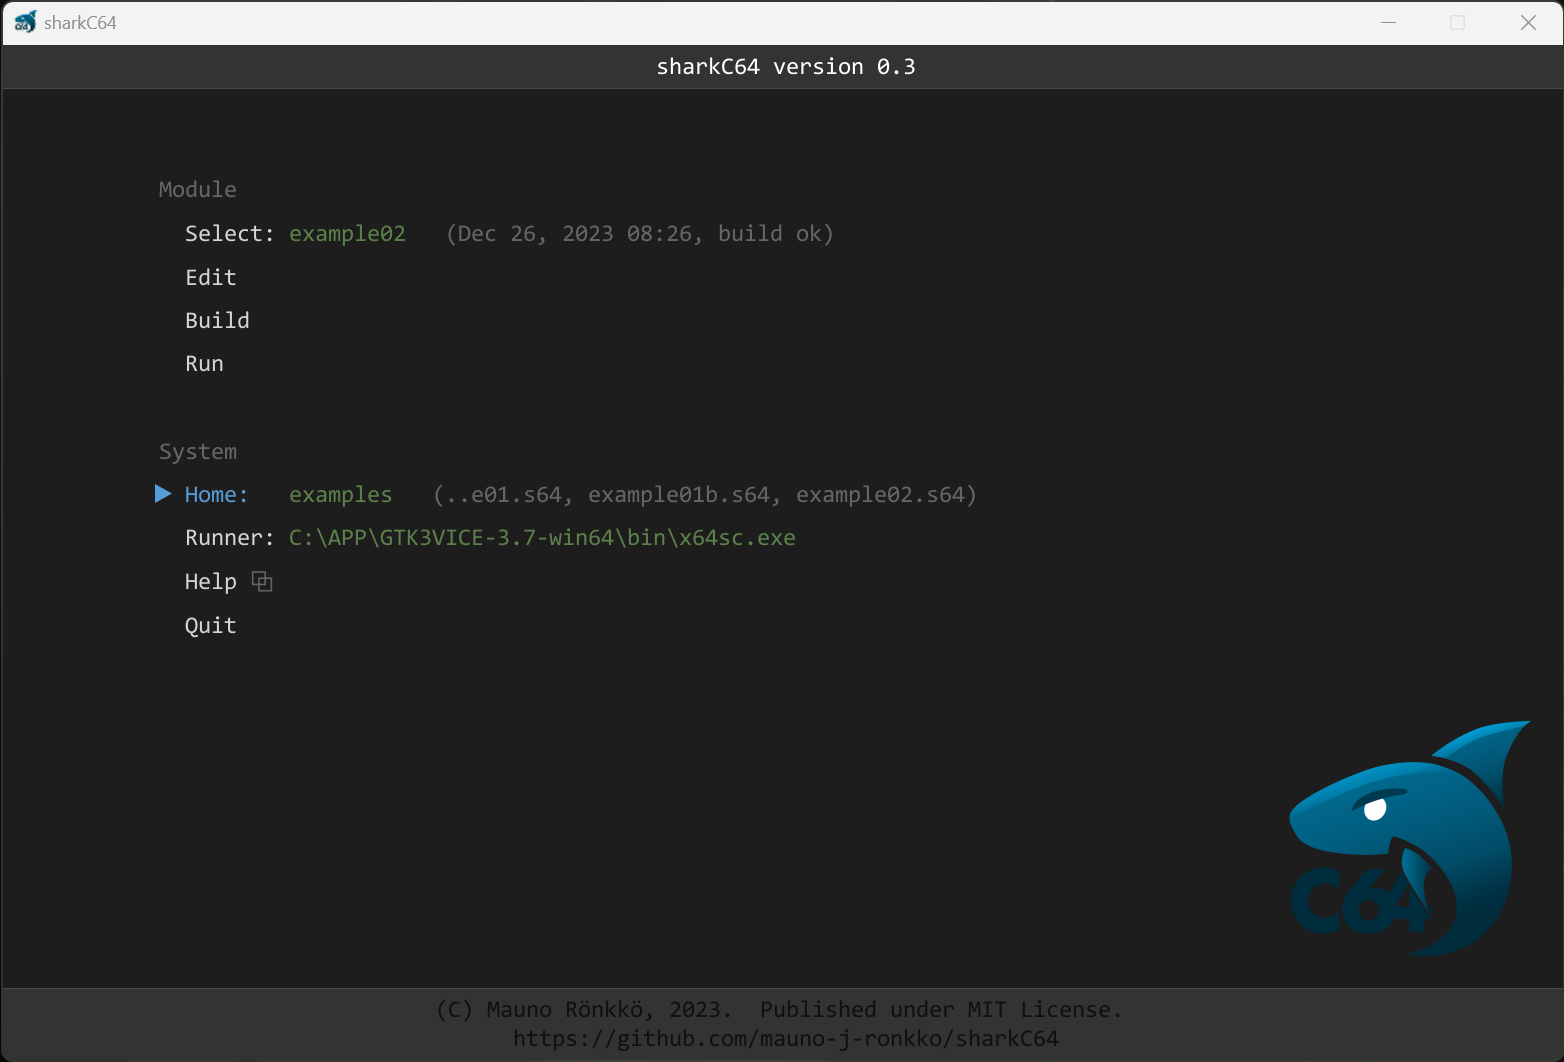
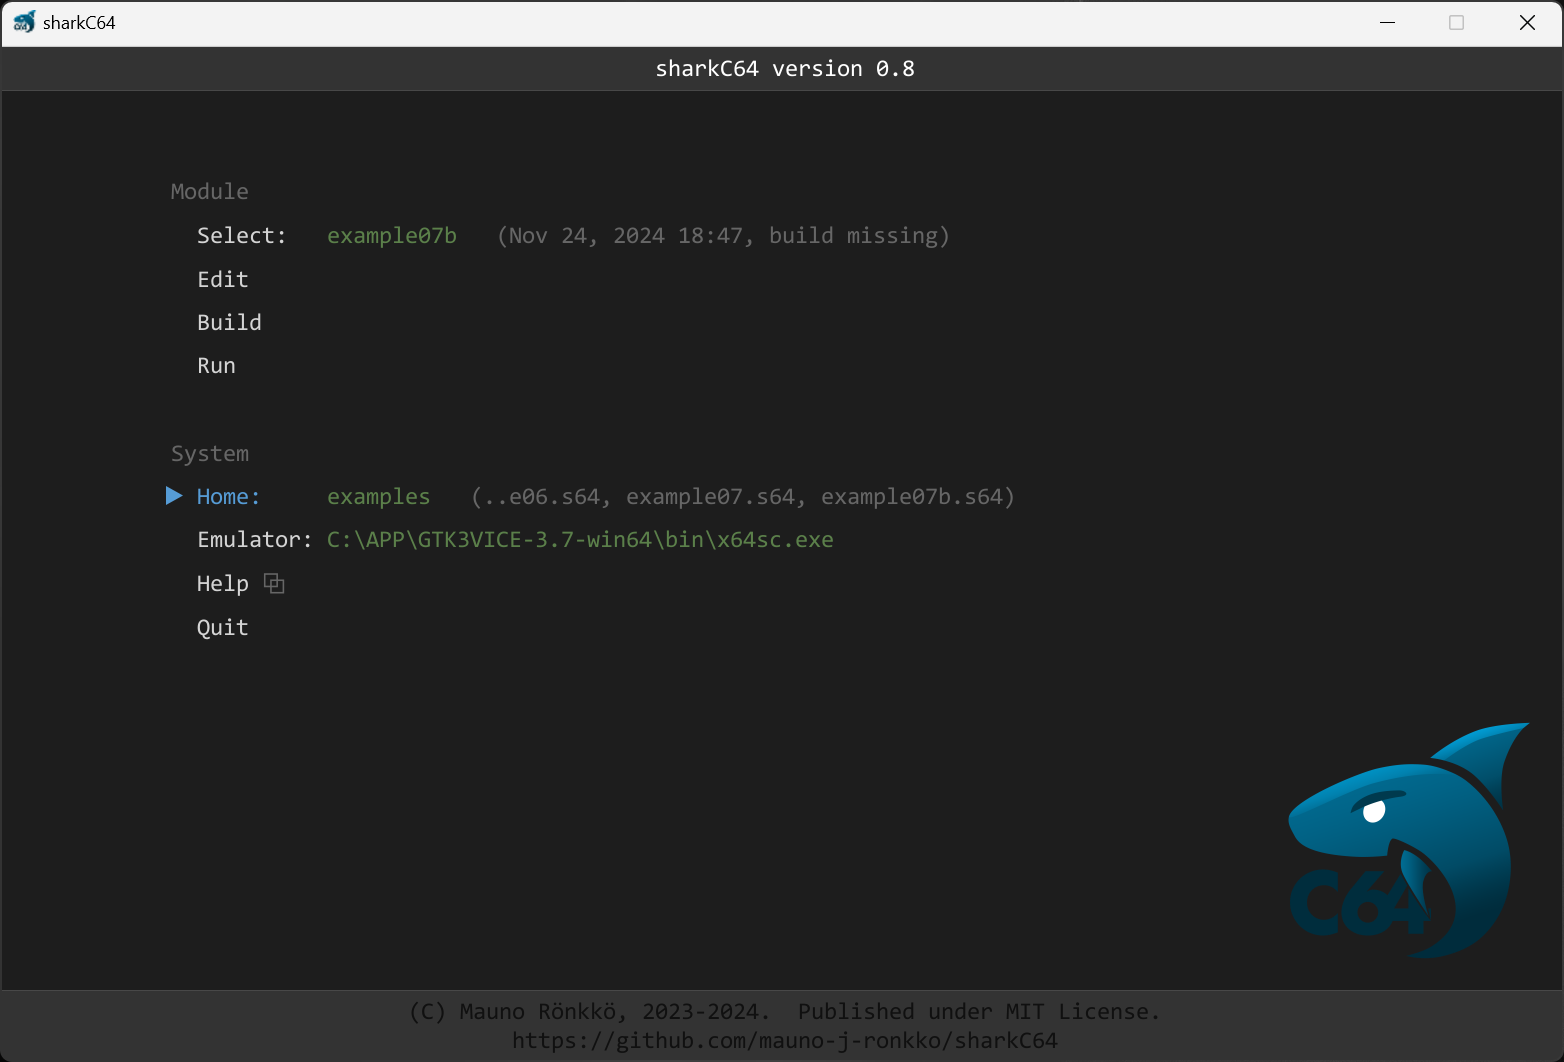
version 0.8

diff --git a/docs/language/syntax.md b/docs/language/syntax.md
@@ -3,7 +3,11 @@
 The syntax of the sharkC64 language is as follows
 
 ```
-<module>             ::= "module" <LABEL> [<const-section>] [<var-section>] [<body>]
+<module>             ::= "module" <LABEL> 
+                         [<use-section>] [<const-section>] [<var-section>] [<body>]
+
+<use-section>        ::= "use" <module-list>
+<module-list>        ::= <LABEL> ["," <module-list>]             (1)
 
 <const-section>      ::= "const" <const-declarations>
 <const-declarations> ::= <const-declaration> [<const-declarations>]
@@ -19,18 +23,18 @@ The syntax of the sharkC64 language is as follows
                          [":" <type-address>] <intial-value>
 <type-array>         ::= ":" <type-byte-array> [<type-address>] |
                          [":" <type-byte-array>] <intial-values>  
-<type-address>       ::= "at" <expression>                      (1)
-<type-byte-array>    ::= <type-byte> "[" <expression> "]"       (2) 
-<type-primitive>     ::= <type-boolean> |                       (3) 
-                         <type-byte> |                          (4)
-                         <type-word>                            (5)
+<type-address>       ::= "at" <expression>                      (2)
+<type-byte-array>    ::= <type-byte> "[" <expression> "]"       (3) 
+<type-primitive>     ::= <type-boolean> |                       (4) 
+                         <type-byte> |                          (5)
+                         <type-word>                            (6)
 <type-boolean>       ::= "boolean"
 <type-byte>          ::= "byte"
 <type-word>          ::= "word"
 
-<intial-values>      ::= ":=" "{" <initial-sequence> "}"        (6)
-<intial-value>       ::= ":=" <expression>                      (6)
-<initial-sequence>   ::= <expression> ["," <initial-sequence>]  (6)
+<intial-values>      ::= ":=" "{" <initial-sequence> "}"        (7)
+<intial-value>       ::= ":=" <expression>                      (7)
+<initial-sequence>   ::= <expression> ["," <initial-sequence>]  (7)
 
 <body>               ::= "begin" <statements> "end"
 <statements>         ::= <statement> [<statements>]
@@ -38,45 +42,46 @@ The syntax of the sharkC64 language is as follows
 <assignment>         ::= <LABEL> ":=" <expression> |
                          <byte-array-element> ":=" <expression>
                          <byte-array> ":=" [<array-modifiers>] <byte-array>
-<if-then-else>       ::= "if" <expression> "then" <statements> ["else" <statements>] "end"  (7)
-<while-do>           ::= "while" <expression> "do" <statements> "end"                       (7)
+<if-then-else>       ::= "if" <expression> "then" <statements> ["else" <statements>] "end"  (8)
+<while-do>           ::= "while" <expression> "do" <statements> "end"                       (8)
 
 <expression>         ::= <operand> [<rhs-expression>]
 <rhs-expression>     ::= <binary-operator> <unary-expression> [<rhs-expression>]
 <unary-expression>   ::= "(" <expression> ")" | <unary-operator> <expression> | <operand> 
-<operand>            ::= <byte-array-element> | <BOOLEAN-VALUE> |  (8)
-                         <LABEL> | <BYTE-VALUE> | <WORD-VALUE>     (8)
-<byte-array-element> ::= <byte-array> "[" <expression> "]"         (9)
-<byte-array>         ::= <LABEL>                                   (10) 
-<binary-operator>    ::= "-" | "+" | "and" | "or" | "xor" |        (11)
-                         "<=" | "<" | "=" | "<>" | ">=" | ">"      (11) 
-<unary-operator>     ::= "-" | "not" |                             (11)
-                         "(byte)" | "(byte.lo)" | "(byte.hi)" |    (11)
-                         "(word)" | "(word.lo)" | "(word.hi)" |    (11)
-                         "(.length)"                               (11)
+<operand>            ::= <byte-array-element> | <BOOLEAN-VALUE> |  (9)
+                         <LABEL> | <BYTE-VALUE> | <WORD-VALUE>     (9)
+<byte-array-element> ::= <byte-array> "[" <expression> "]"         (10)
+<byte-array>         ::= <LABEL>                                   (11) 
+<binary-operator>    ::= "-" | "+" | "and" | "or" | "xor" |        (12)
+                         "<=" | "<" | "=" | "<>" | ">=" | ">"      (12) 
+<unary-operator>     ::= "-" | "not" |                             (12)
+                         "(byte)" | "(byte.lo)" | "(byte.hi)" |    (12)
+                         "(word)" | "(word.lo)" | "(word.hi)" |    (12)
+                         "(.length)"                               (12)
 <array-modifiers>    ::= "(.up)" | "(.down)"                         
     
     
-<LABEL>         is a letter followed by a sequence of letetrs and digits  (12) 
+<LABEL>         is a letter followed by a sequence of letetrs and digits  (13) 
 <BOOLEAN-VALUE> is a binary truth value {false, true}
 <BYTE-VALUE>    is an 8-bit unsigned value in the range [0..255]    
 <WORD-VAULUE>   is a 16-bit unsigned value in the range [0..65535]
 ```
 
-1. `expression` must evaluate to a fixed `<WORD-VALUE>`.
-2. `expression` must evaluate to a fixed value in the range `[1..256]`.
-3. `<type-boolean>` evaluates to a fixed `<BOOLEAN-VALUE>`.
-4. `<type-byte>` evaluates to a fixed `<BYTE-VALUE>`.
-5. `<type-word>` evaluates to a fixed `<WORD-VALUE>`.
-6. `expression` must match with the contextual type. 
+1. `<LABEL>` must refer to an existing module with that name 
+2. `expression` must evaluate to a fixed `<WORD-VALUE>`.
+3. `expression` must evaluate to a fixed value in the range `[1..256]`.
+4. `<type-boolean>` evaluates to a fixed `<BOOLEAN-VALUE>`.
+5. `<type-byte>` evaluates to a fixed `<BYTE-VALUE>`.
+6. `<type-word>` evaluates to a fixed `<WORD-VALUE>`.
+7. `expression` must match with the contextual type. 
    For instance, if the contextual type is `byte`, the expression must evaluate to a fixed `<BYTE-VALUE>`.
-7. `expression` must be of `<type-boolean>` type.
-8. `operand` must match with the contextual type.
-9. `expression` must be of `<type-byte>` type.
-10. `label` must denote a variable that is a byte array
-11. `operator` must match with the contextual type.
-12. Context may limit possible `label` values. For instance, in variable declaration, 
-   each `label` must be unique within the defining scope. Also, a `label` denoting a variable
+8. `expression` must be of `<type-boolean>` type.
+9. `operand` must match with the contextual type.
+10. `expression` must be of `<type-byte>` type.
+11. `<LABEL>` must denote a variable that is a byte array
+12. `operator` must match with the contextual type.
+13. Context may limit possible `<LABEL>` values. For instance, in variable declaration, 
+   each `<LABEL>` must be unique within the defining scope. Also, a `<LABEL>` denoting a variable
    in an expression must refer to a variable that matches with the contextual type. 
 
 ### Notes

diff --git a/docs/language/modules/uses.md b/docs/language/modules/uses.md
@@ -1,0 +1,48 @@
+# Uses
+A module may depend on other modules. Dependencies are declared in a ```use``` section.
+Module files are listed using comma as separator.
+```
+use moduleA, moduleB, moduleC
+```
+
+All module files are assumed to be in the same folder. 
+Modules are read in the same order as they are listed. 
+Listed modules may have further dependencies,
+and it is also possible that several modules refer to the same module. 
+Such a module is then read only once. 
+In any case, inner dependencies are read before outer dependencies.
+Consider, for instance, the following case where moduleC, moduleD, and moduleE have no further
+dependencies.
+```
+moduleA
+  use moduleB, moduleC
+  ...
+
+moduleB
+  use moduleD, moduleC, moduleE
+  ...
+```
+Then, modules are read in the order: moduleA, moduleB, moduleD, moduleC, and moduleE.
+In particular, moduleC is read only once.
+
+> :no_entry: Modules may not form circular dependencies.
+> A circular dependency results in a compiler error.
+> The simplest example of a circular dependency is the case, 
+> where moduleA uses moduleB and vice versa.
+> ```
+> moduleA
+>   use moduleB
+>   ...
+> 
+> moduleB
+>   use moduleA
+>   ...
+> ```
+
+Note that, although all the names and labels in Shark are case-sensitive, 
+the operating system may consider file names case-insensitive.
+Therefore, module names that differ only by letter cases are not recommended.  
+
+Note also that the name of the module must comply with the filename.
+A file with some name must contain a module with the same name.
+Furthermore, all used modules must have unique names. 

diff --git a/docs/language/expressions/expressions.md b/docs/language/expressions/expressions.md
@@ -13,6 +13,22 @@ The data type of a value in the range [`$00` .. `$FF`] can be either a `byte` or
 For such values, the program context defines the exact data type.
 
 
+### Identifiers
+Identifiers are referred by their name. For instance, in initialization body, 
+`screen` refers to an identifier defined in the module. 
+The identifier can be a constant or a variable. 
+An identifier is always associated with its type, and the type information
+is used in evaluating an expression.
+
+An identifier in another module can be referred to by using its qualified name.
+For instance, `color.red` refers to an identifier called `red` that is defined
+in a module called `color`. Because identifiers are unique within a module,
+several modules can have identifiers with the same name. 
+Then, qualified name is used to differentiate which identifier is in question.
+If no module qualification is given, an identifier refers always to the one
+defined in the current module.
+
+
 ### Operators
 The sharkC64 language supports all standard operators that are also supported by the processor.
 Supported operators are listed below. 

diff --git a/docs/ide/running.md b/docs/ide/running.md
@@ -1,16 +1,16 @@
 # Running the active module
 
-The home screen of the sharkC64 IDE looks as follows (captured on version 0.3):
+The home screen of the sharkC64 IDE looks as follows:
 ![Selecting active module](../images/running.png)
 
 To run the active module, click the Run action in the Module section.
 If the module has not been built yet, the Run action will first build it
 and then run it. 
 
-The Run action uses the Runner command to run the built prg file.
-If the Runner command is not supplied, the Run action is not active. 
-To read more about the Runner command, see the text about the [runner](setting-runner.md)
-action.
+The Run action uses the Emulator command for running the built prg file.
+If the Emulator command is not supplied, the Run action is not active. 
+To read more about the Runner command, see the text about the [emulator](setting-emulator)
+command.
 
 If errors are found during the building phase, the editor view will be opened
 and the first error location will be displayed. For more about the

diff --git a/docs/ide/setting-emulator.md b/docs/ide/setting-emulator.md
@@ -1,0 +1,21 @@
+# Setting the emulator command for running a program
+
+The home screen of the sharkC64 IDE looks as follows:
+![Selecting active module](../images/emulator.png)
+
+Because the emulator command for running a program depends on your personal system settings
+and installations, the sharkC64 IDE leaves it undefined during initialization.
+In the picture above, the emulator command for running a program uses the Vice emulator.
+In that specific case, the Gtk 3 version of the Vice emulator has been 
+installed on a Windows computer to the folder `C:\APP`.
+
+To set the emulator command, click the Emulator action in the System section, 
+and type the emulator command. 
+
+The emulator command must refer to some executable file in the system.
+If it does not, an "invalid file" status is shown next to it,
+and the Run action in the Module section is disabled.
+
+<br /><br />
+:leftwards_arrow_with_hook: [Back to index](../index.md)
+

diff --git a/docs/index.md b/docs/index.md
@@ -25,14 +25,15 @@ The sharkC64 IDE is published under MIT license.
       4. [Empty statements](language/statements/empty.md)
    3. Modules
       1. [Modules](language/modules/modules.md)
-      2. [Module initialization](language/modules/initialization.md)
+      2. [Using or including other modules](language/modules/uses.md)
+      3. [Module initialization](language/modules/initialization.md)
    4. [Comments](language/comments.md)
    5. [Language syntax](language/syntax.md)
 3. Using the sharkC64 IDE
    1. [Starting sharkC64 IDE](ide/starting.md)
    2. [Home screen](ide/homescreen.md)
    3. [Setting the home folder](ide/setting-home.md)
-   4. [Setting the runner command](ide/setting-runner.md)
+   4. [Setting the emulator command for running a program](ide/setting-emulator)
    5. [Selecting an active module](ide/selecting.md)
    6. [Editing the active module](ide/editing.md)
    7. [Building the active module](ide/building.md)

diff --git a/docs/language/modules/modules.md b/docs/language/modules/modules.md
@@ -4,6 +4,7 @@ A module is defined in a file, and it has the structure shown below.
 In particular, a module consists of sections that start with a section keyword.
 ```
 module UniqueName01
+    use   moduleA, moduleB
     const one : byte := $01
     var   a,b : byte
           corner : byte at $400 := one
@@ -25,6 +26,13 @@ All names in the sharkC64 language are case-sensitive, and a name may contain up
 lower case letters followed by digits. However, as the name of the module must match 
 the filename, module names should differ in some other ways than by letter case.
 Otherwise, operating systems that are case-insensitive cannot distinguish them.
+
+### Uses
+A module may depend on other modules. Dependencies are declared in a ```use``` section.
+Modules are listed using comma as separator.
+```
+use moduleA, moduleB
+```
 
 ### Constants
 Constants are listed in a `const` section. Each constant must be given a 

diff --git a/docs/ide/starting.md b/docs/ide/starting.md
@@ -32,7 +32,7 @@ Here are steps to start sharkC64.
    You may then have to click the file with right mouse button and choose an option to run it.
 4. The integrated development environment for the sharkC64 should open with a greeting dialog.
    ![Welcome](../images/welcome.png)
-5. Click the OK button, and you should see the home screen (captured on version 0.3)
+5. Click the OK button, and you should see the home screen
    ![Home screen](../images/home-screen.png)
 
 The sharkC64 IDE comes bundled with examples. When you start the sharkC64 IDE for the first time, it will

diff --git a/docs/ide/examples.md b/docs/ide/examples.md
@@ -14,6 +14,8 @@ The sharkC64 compiler comes bundled with example programs.
 | [example06](../../examples/example06.s64)   | use `word` data type                          | 0.6   |
 | [example07](../../examples/example07.s64)   | declare and use `byte` arrays                 | 0.7   |
 | [example07b](../../examples/example07b.s64) | use array assignment                          | 0.7.1 |
+| [example08](../../examples/example08.s64)   | include other modules (use statement)         | 0.8   |
+
 
 <br /><br />
 :leftwards_arrow_with_hook: [Back to index](../index.md)

diff --git a/docs/roadmap/history.md b/docs/roadmap/history.md
@@ -1,5 +1,13 @@
 # Release history
 
+### Version 0.8 published December 7, 2024
+- Added use statement
+- Added referencing of variables and constants in another module
+- Refactored settings and home screen
+- Fixed handling of invalid files
+- Adjusted dialogs on screen
+- Simplified compiler error handling
+
 ### Version 0.7.2 published November 9, 2024
 - refactored IDE implementation
 - added some minor usability adjustments

diff --git a/docs/ide/setting-home.md b/docs/ide/setting-home.md
@@ -1,6 +1,6 @@
 # Setting the home folder
 
-The home screen of the sharkC64 IDE looks as follows (captured on version 0.3):
+The home screen of the sharkC64 IDE looks as follows:
 ![Selecting active module](../images/home.png)
 
 The sharkC64 IDE initializes the home folder to be the example folder that it creates

diff --git a/docs/ide/selecting.md b/docs/ide/selecting.md
@@ -1,6 +1,6 @@
 # Selecting an active module
 
-The home screen of the sharkC64 IDE looks as follows (captured on version 0.3):
+The home screen of the sharkC64 IDE looks as follows:
 ![Selecting active module](../images/selecting.png)
 
 To select an active module, click the Select action in the Module section,
